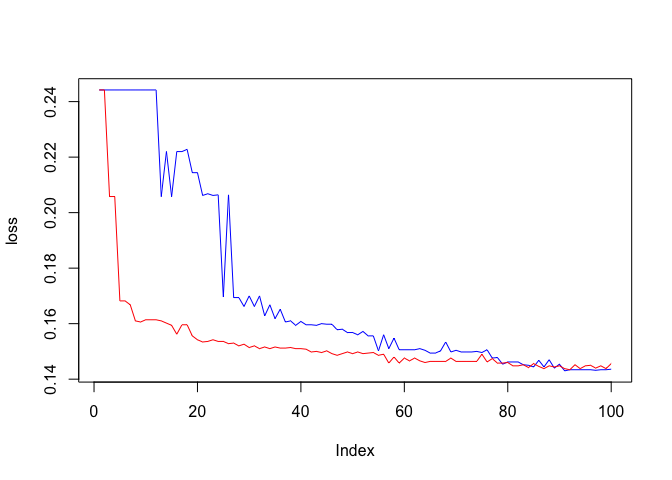
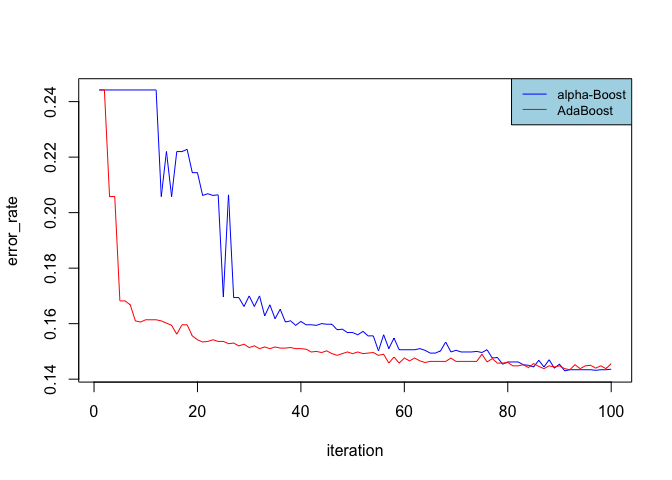
Text Restructuration

Changed region(s): [[0.75, 0.1562, 0.9375, 0.2812], [0.4688, 0.9062, 0.5625, 0.9688], [0.0, 0.4062, 0.0312, 0.5625]]

diff --git a/MLInsights_boosting_1.md b/MLInsights_boosting_1.md
@@ -7,185 +7,224 @@ A Game Theory Approach of Boosting
 
 Although based on a very simple idea, Boosting is remarkably powerful to
 solve supervised learning tasks, and is moreover easy to implement and
-tune as it only takes one single parameter as input. Belonging to the
+tune as it only needs one single parameter. Belonging to the
 ensemble-learning paradigm, the underlying principle is as follows:
-multiple weak-classifiers are trained on distorted versions of the
+multiple weak-classifiers are trained on distored versions of the
 training set, and these weak-classifiers are then combined into a
 committee that uses voting to classify new features. Now, this core
 principle can lead to a multitude of different boosting algorithms, and
-we propose in this post to explain how game theory can lead us to the
-specific alpha-Boost algorithm. We then propose an implementation of the
+this post aims to explain how game theory can lead to the specific
+alpha-Boost algorithm. We then propose an implementation of the
 alpha-Boost algorithm and compare its performance to the famous AdaBoost
 algorithm.
 
 ## Boosting from a Game Theory Perspective
 
-### Game Setup
+### Motivation
 
-Let us now rethink boosting under a game theory perspective and try to
-derive an alternative algorithm from this analysis. The essence of
-Boosting is to find and collect weak-learners that know something
-different about the data, and to then combine their knowledge into a
-final “strong classifier”. The question arising at this stage is how to
-make the weak-classifiers always learn something new about the same
-training set? The key to this problem is bootstrapping, and game theory
-can help us to wrap this method in a framework to extract those needed
-classifiers.
+The main question Boosting trys to solve is how to find and combine
+“weak-classifiers” having different knowleges from the training set in
+order to form a final “strong classifier”? Those quesions cannot be
+answered by the classical process of minimizing some loss function, and
+we therefore need to find another approach to come along. This is where
+game theory comes in by providing the notion of player. Indeed, we can
+break down the problem into two tasks: on the one hand classifiers have
+to be found, and on the other hand, different aspects of the data must
+be highlighted in order to aquire “different knowledges” of it. Those
+tasks can easily be framed into players and a “game” will then
+orchestrate their actions and interactions to make them look for the
+solution we want.
 
-Indeed, bootstrapping allows us to resample the training set, and if we
-twist it by modifying its sampling distribution (per default uniform),
-we can emphasis spaces of the training set that are until now hard for
-the weak-classifiers to label, and therefore force the latters to learn
-something new. To put this mechanic into action, let us frame the two
-main components of this methodology into players: the classifiers on the
-one hand, and the bootstrapping on the other hand.
+### The Players
 
-To sketch a more detailed picture of the game, we can imagine each round
-having into action a first player responsible of choosing a bootstrap
-sample from the source training set, and a second player due to select a
-weak-classifier from a given class. The keystone of the game is then the
-players’ rewards; at the end of each round, the classification error
-computed with the outputted sample set and classifier will be taken as
-the game score, and this score will form the first player’s reward and
-the second player’s punishment.
+Now that we roughly described how game theory can help to solve our
+problem, let us design more carefully the players. Each player must be
+given a set of moves, so that one of them can be choosen at each round.
+For the player responsible of providing classifiers, its moves will
+simply be a set of trained models. However, how can we design a second
+player that would highlight different aspects of the training data-set?
+Bootstrapping is the key here, and we only need to twist its sampling
+distribution to do so. Indeed, it usually uses an uniform distribution
+to resample a data set, but by using other distributions, we can then
+stress particular regions of this set. We thus have a player that will
+output a classifier at each round, and another that will output a
+bootstrapped sample. The remaining question is how to put this mechanics
+into action in order to extract the “strong classifier” we need?
 
-To help us visualize this game, we can make an almost one to one
-comparison to the well-known “rock, scissors, paper” game. Both games
-need to be initialized with a distribution over the different player’s
-possibilities, the so-called “strategies”. In “rock, scissors, paper”,
-there are 3 possible moves for each players and a strategy could be to
-always play rock, or to pick randomly a move according a uniform
-probability. In the newly designed game, one player’s moves are the
-bootstrap samples, and the other player’s moves are the classifiers.
-Once the strategies are chosen, the two players select a move according
-to their respective strategy simultaneously, payback are computed, and
-the process can be rerun any amount of time.
+### The Game
 
-This game can therefore be classified as a simultaneously playing,
-zero-sum non-cooperative game. Moreover, if we choose stumps as
-weak-learner, it is proven that this infinite set can be reduced to a
-finite number of stumps as it Vapnik-Chevonenkis dimension is finite.
-Therefore, the game is also finite.
+The game is the ingredient that will enable the players to move by
+setting their goals and distributing the payoffs. To set the goals, we
+have to come back to the boosting philosophy: classifiers having
+different knowleges of the data should be identified. Therefore, the
+player responsible of providing a classifier will be rewarded if the
+classifier has any knowlege about the given data, and the player
+responsible of highlighting some aspects of the training set will be
+rewarded if these aspects cannot be catched by the first player: this
+would mean it found new knowlege to aquire. We see here that this goals
+are conflicting: one player will try to emphisis the training samples
+that are the hardest to classify, and the other will still try to find
+some classifiers that overcome the difficulty. This is the description
+of a simultaneously playing, zero-sum non-cooperative game. Moreover, if
+we choose stumps as classifiers, it is proven that this infinite set can
+be reduced to a finite number of stumps as its Vapnik-Chevonenkis
+dimension is finite. Therefore, the game can also be considered to be
+finite, and we then have at our disposal a rich theory to understand it.
 
-### Game Solution
+### The Solution
 
 We just derived a framework expressing the spirit of boosting, and our
 hope is that it will be able to find the desired classifiers. To do so,
 we have to “solve” the game, that is to find its Nash equilibrium. At
 this equilibrium, no player has any interest to change its strategy to
-get more rewards, meaning that, by playing repeatedly, player one would
+get more rewards, meaning that, by playing repeatedly, one player would
 produce the mix of bootstrap samples that are the hardest to classify
-and player two would have a strategy allowing him to have on average the
-smallest classification error possible given player one’s strategy. We
-would then just have to get the second player’s strategy to build up our
-final classifier. Fortunately for us, the designed game is well known
-from the game theory and its Nash equilibrium coincide with the minmax
-solution. Moreover, the minmax solution can be solved through the so
-called “multiplicative-weight” algorithm, and the following shows and
-implementation of the solver.
+and the other player would have a strategy allowing him to have on
+average the smallest classification error possible given player one’s
+strategy. We would then just have to extract the second player’s
+strategy to build up our final classifier. The Nash equilibrium can be
+hard to find, especially in our setup where the move combinations are
+very high. Fortunately, we know from game theory that the Nash
+equilibrium coincides with the minmax solution for zero-sum game, and
+this solution can be approximated by the so called
+“multiplicative-weight” algorithm for finite games. The follwing
+explains how this works.
 
 ## Implementation
 
 ### Algorithm
 
-The Minmax solution in this particular setup it pretty straightforward
-to find. Each game will be spited in two parts: the player responsible
-for choosing the bootstrap sample will firstly announce its strategy.
-Given player one’s strategy, the second player will then choose the
-strategy maximizing its gain. The game will then be played, a feedback
-will be given to player one, and the latter will then be allowed to
-update its strategy in a way to try to decrease the gain that the second
-player could achieve. This update will be done through the
-multiplicative-weight rule. As this process gets along, the strategy of
-player 1 will converge to the Nash equilibrium. However, what really
-interests us is the Nash equilibrium strategy of player 2. It can be
-shown that the average of the strategies chosen by player 2 during this
-iterative process converge to this distribution. The following code
-shows that in action.
+The minmax solution is the strategy ensuring minimum loss for one player
+given that its opponent will always choose the best strategy, that is
+the strategy maximizing the loss. The “multiplicative-weight” algorithm
+trys to approximate this solution by iteratively updating one player’s
+startegy given its performances against an omniscient opponent who knows
+which strategy has been choosen before the game starts, and therefore
+allways chooses the best strategy to maximize the loss of the first
+player. In our particular case, the loss for the player responsible of
+producing the bootstrapped sample is the opposite of the classification
+error as explained above, and the algorithm then takes the following
+steps: the player responsible for choosing the bootstrapped samples will
+firstly announce its strategy. Given this strategy, the other player
+will choose the strategy maximizing the loss of the first player, that
+is minimizing the classification error. The game will then be played,
+the loss of player one will be computed, and the latter will then be
+allowed to update its strategy to try to do better. This update will be
+done through the multiplicative-weight rule. As this process gets along,
+it can be shown that the average of the strategies chosen by the player
+picking the classifiers it the solution we are loooking for. The
+following code shows that in action.
 
 ``` r
 # PARAMETER ----
-rounds <- 100 # To be set
-eta <- 0.1 # setting the step size from one strategy to the other
+games_number <- 100 # number of games to be played
+eta   <- 0.1 # setting the step size from one strategy to the other
 
 # VARIABLES ----
 n <- nrow(data)
-h <- list() # container for the weak-classifier (h for hypothesis)
-P <- list() # container for the strategies of player 1 along the rounds
-P_init <- rep(1, n)/n # initial strategie of player 1: uniform
+P <- list() # container for the strategies of player 1
+            #  - player 1 has to choose among the different possible 
+            #    boostrap samples from the training set. 
+            #  - it strategy is therefore the sampling distribution that should 
+            #    be used for boostrapping the training set.
+h <- list() # container for the strategies of player 2 
+            #  - player 2 has to choose among the different possible classifiers. 
+            #  - As player 2 plays second, he only chooses pure strategies: 
+            #    given a boostrapping distribution, he knows (or can find by learning) 
+            #    which classifier has the best performances.
+            #  - Therefore, h directly contains the weak-classifiers (h for hypothesis)
 
-loss <- c() # container for the error rates
-labels <- data$income 
+error_rate <- c() # container for the error rates of the full classifier over
+                  # the iterations. Not necessary for finding the minmax solution. 
+
+# INITIAL STRATEGY ----
+P[[1]] <- rep(1, n)/n # initial strategy of player 1: uniform
 
 # MAIN ----
-for(round in 1:rounds){
+for(i in 1:games_number){
   # Step 1
-  # - Player 1 chooses a strategy P to attempt increasing the second player's loss
-  if(round > 1){
-    P[[round]] <- P[[round-1]] * sapply(abs(result - data$income), 
-                                        function(x){
-                                          if(!x == 0){
-                                            return(1)
-                                          } else {
-                                            return(exp(-eta))
-                                            }
-                                          }
-                                        )
-    P[[round]] <- P[[round]] / sum(P[[round]])
-  } else {
-    P[[round]] <- P_init
-  }
+  if(i > 1){
+    # - player 1 is given a chance to look at the game results
+    #   to update its strategy
+    P[[i]] <- 
+      P[[i-1]] * 
+      sapply(player2.errors, 
+            function(error){
+              if(!error == 0){
+                # wrong classified sample by player 2
+                # -> its weight has to be increased
+                # (will be increased through normalization)
+                return(1)
+              } else {
+                # correctly classified sample by player 2
+                # -> its weight has to be decrease
+                return(exp(-eta))
+                }
+              }
+            )
+    P[[i]] <- P[[i]] / sum(P[[i]]) # normalization
+  } 
   
   # Step 2 
   # - Time for player 2 to choose its strategy.
   #   Because player 2 knows player one strategy, he knows exactly which 
   #   classifier to choose. He therefore has a pur strategy consisting of 
-  #   a one probability on the following classifier: 
-  h[[round]] <- rpart(income  ~ .,
-                      data    = data,
-                      weights = P[[round]], 
-                      method  = "class", 
-                      control = rpart.control(minsplit =1,minbucket=1, cp=0, maxdepth = 1))
+  #   a full probability on one single classifier: 
+  h[[i]] <- rpart(income  ~ .,
+                  data    = data,
+                  weights = P[[i]], 
+                  method  = "class", 
+                  control = rpart.control(minsplit =1,
+                                          minbucket=1, 
+                                          cp=0, 
+                                          maxdepth = 1)) # one depth tree are used here
   
   # Step 3
-  # - Rewards are computed and player 1 is given a chance to 
-  #   look at these rewards to update its strategy. 
-  result <- as.numeric(predict(h[[round]], type = "class"))-1
+  # - the performances of player 2 is computed, and these 
+  #   will be used by player 1 to update its strategy 
+  player2.prediction <- as.numeric(predict(h[[i]], type = "class"))-1
+  player2.errors <- abs(player2.prediction - data$income)
+  
+  
   
   # Optional
   # - We here keep track of the progress of the algorithm
   tmp <- matrix(as.numeric(unlist(lapply(h, predict, type = "class")))-1, nrow = n)
-  tmp_2 <- round(rowSums(tmp)/round)
-  loss[round] <- sum(abs(data$income-tmp_2))/n
+  tmp_2 <- round(rowSums(tmp)/i)
+  error_rate[i] <- sum(abs(data$income-tmp_2))/n
 }
 ```
 
 ### Analysis
 
 Interestingly, the derivation of the boosting principles under the game
-theory spotlight leads to an algorithm very similar to Adaboost. The
+theory spotlight leads to an algorithm very similar to AdaBoost. The
 main difference between those two algorithms is the way the
-weak-classifiers are combined together: alpha-boost will simply use an
-absolute majority to classify new labels whereas Adaboost will us a
+weak-classifiers are combined together: alpha-Boost will simply use an
+absolute majority to classify new labels whereas AdaBoost will us a
 weighted vote where classifiers performing better will be given a
 stronger weight. The theory has already explored these two
 implementations and it can be shown that they are both able to make the
 training error as small as wanted under the weak-learnability
-assumption. However, Adaboost is an improvement of alpha-boost in the
-sense that it will theoretically reduce the training error faster than
-Alphaboost.
+assumption. However, AdaBoost is an improvement over alpha-Boost in the
+sense that it will theoretically reduce the training error much faster
+through this adaptive mechanism.
 
 ### Testing
 
-The following plots show the performance of the alpha-Boost and Adaboost
-algorithms. As expected, we can see that Adaboost is able to reduce the
-training error much faster than the alpha-Boost algorithm is. However,
-it seems that both algorithms cannot reduce the training error under a
-certain lower bound (0.13). A potential explanation is that the
-weak-learnability assumption is too strong for the one-depth tree-space.
-Therefore, after some iterations, no classifier of this space might be
-able to do better than random guessing for the provided bootstrapped
-sample.
+The boosting algorithms have been tested over a census income data set
+made up of 5000 data points and 14 variables. The target variable was
+the income class (over or under $50k) and the predictors where
+sociodemographic informations. The following plots show the performance
+of the alpha-Boost and AdaBoost algorithms. As expected, we can see that
+AdaBoost is able to reduce the training error much faster than the
+alpha-Boost algorithm is. However, it seems that both algorithms cannot
+reduce the training error under a certain lower bound (0.14). A
+potential explanation is that the weak-learnability assumption is too
+strong for the one-depth tree-space that has been used as
+weak-classifier space. Therefore, after some iterations, no classifier
+of this space might be able to do better than random guessing for the
+provided bootstrapped samples.
 
     ## [1] 0.1456
 
@@ -193,16 +232,21 @@ sample.
 
 ## Go Further
 
-In order to go further, one could try out a different space of weak
-classifier in order to overcome the potential weak learnability
-violation. It would also be possible to performe a sensitivity analysis
-of the alpha-Boost algorithm with respect to the eta parameter, in order
-to better select it.
+To go further, one could try out a different space of weak classifiers
+in order to overcome the potential weak learnability violation. The
+class of two or three depth trees might be sufficient. It would also be
+interesting to perform a sensitivity analysis of the alpha-Boost
+algorithm with respect to the eta parameter, in order to optimize it
+selection regarding the learning rate.
 
 ### Acknowledgement
 
-The data set was provided by
-<https://archive.ics.uci.edu/ml/datasets/census+income> For further
-informartion about the used boosting implementation please refere to
-<https://xgboost.readthedocs.io/en/> This article is mainly based on
-“Boosting, Foundation and Algorithm” written by Shapire and Freund.
+  - The data set was provided by the UCI machine learning repository:
+    <https://archive.ics.uci.edu/ml/datasets/census+income>
+
+  - For further informartion about the used AdaBoost implementation
+    please refere to <https://xgboost.readthedocs.io/en/>
+
+  - This article is mainly based on “Boosting, Foundation and Algorithm”
+    written by Shapire and Freund:
+    <https://mitpress.mit.edu/books/boosting>
